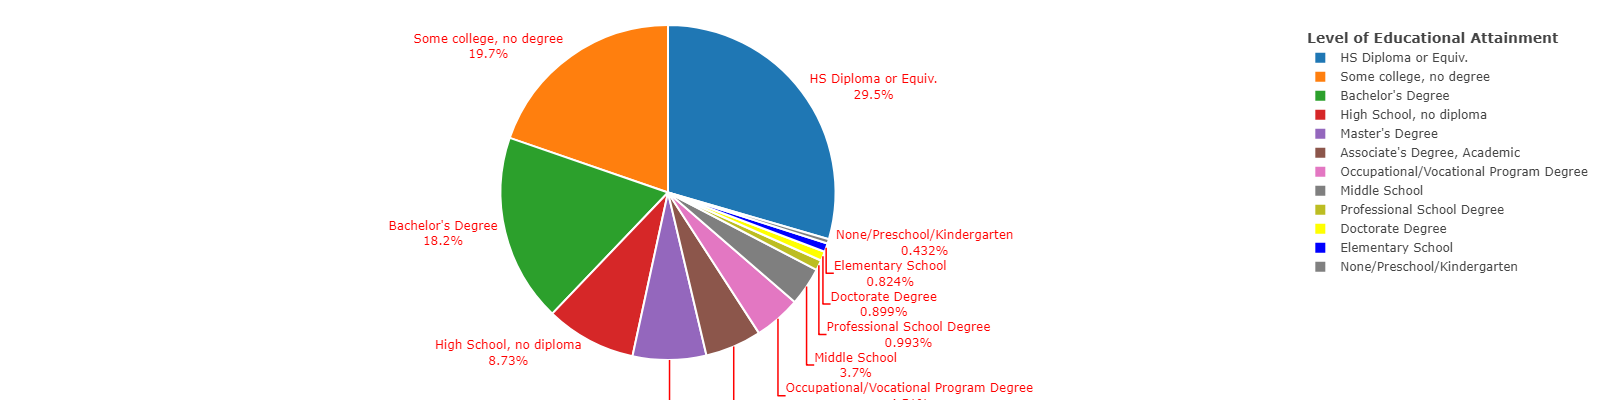
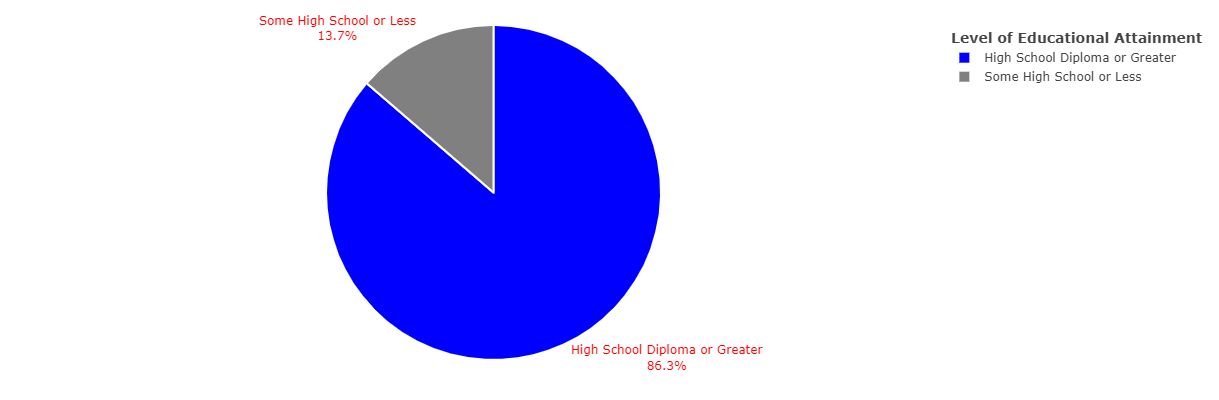
making changes to ch1 + 2, continue review of ch2 tomorrow

diff --git a/thesis.md b/thesis.md
@@ -1,6 +1,6 @@
 # Introduction
 
-This chapter will detail the existing research behind EduAttain, as well as, detail the motivation and goals of the project.
+This chapter will introduce the existing research behind EduAttain, as well as, detail the motivation and goals of the project.
 
 ## Motivation
 
@@ -20,9 +20,9 @@ There is a robust literature surrounding educational attainment that captures th
 
 Much of the focus in the existing literature concerns differences between white and black individuals. This neglects the disparities and differences in educational attainment that might be observed in other racial and ethnic groups. One of the goals of this study and subsequent tool is to analyze differences across different racial and ethnic groups, with special interest in observing differences in those racial and ethnic groups that literature has failed to cover.
 
-To my knowledge, there is no research that analyzes the combined impact of race, ethnicity, and gender on educational attainment and the degree to which interactions between these factors can influence whether a person will recieve a certain level of educational attainment.
+To my knowledge, there is no research that analyzes the combined impact of race, ethnicity, and gender on educational attainment and the degree to which interactions between these factors can influence whether a person will recieve a certain level of educational attainment. This gap in research is particularly concerning given the impact on these intersections of identity on educational outcomes.
 
-Few studies employ the use of regression to study the effects of different factors on educational attainment [ADD CITATION HERE]. One of the goals of this project is to use a regression model that includes  race, ethnicity, and gender as they relate to educational attainment. This research shed light on the strength of the relationship between each of the factors. It could also help determine which of these factors plays a bigger role as a determinant of educational attainment.
+Few studies employ the use of regression to study the effects of different factors on educational attainment. Moreover, of those that do, the focus tends to be on the topic of income and educational attainment [ADD CITATION HERE]. One of the goals of this project is to use a regression model that includes race, Hispanic ethnicity, and gender as they relate to educational attainment. This research shed light on the strength of the relationship between each of the factors. It could also help determine which of these factors plays a bigger role as a determinant of educational attainment.
 
 This project also looks to take on the task of an interdisciplinary study, as research from various fields of study including Sociology and Economics will be leveraged in the creation of a tool that is created using computer science and data science fundamentals. The goal is that this project represents a type of study called fusion analysis, where multiple disciplines are used together in order to analyze data and draw greater conclusions from that data (had only traditional data analysis been employed) [ADD CITATION].
 
@@ -34,7 +34,7 @@ In order to access to all of the data, an SQLite database will be used to store 
 
 Figure 1 presents a pie chart comprised of proportions of the male population at each level of educational attainment, while Figure 2 presents a similar pie chart but for the female population accounted for in 2010. This along with additional statistics and visualizations will be output on a web-based dashboard, which will allow for users to compare different identity groups or to look at the trend of educational attainment for one identity group over the years.
 
-The main goal of this project is to provide a tool that will make it easy to observe trends in US educational attainment by race, gender, and Hispanic origin. An auxiliary goal of this project is to be able to compare trends in educational attainment by identity group and by year,through comparing the proportions of the population at each level of education. This is so that the trends based on individual factors can be observed in isolation, as well. A final goal of this project is to determine if there is a statistical relationship between educational attainment and each of these factors, and whether or not these factors can be viewed as determinants of educational attainment.
+The main goal of this project is to provide a tool that will make it easy to observe trends in US educational attainment by race, gender, and Hispanic origin. An auxiliary goal of this project is to be able to compare trends in educational attainment by identity group and by year, through comparing the proportions of the population that attained an education equivalent to or greater than a high school diploma. This is so that the trends based on individual factors can be observed in isolation. A final goal of this project is to determine if there is a statistical relationship between educational attainment and each of these factors, and whether or not these factors can be viewed as determinants of educational attainment, both of which will be accomplished through the use of a binary logistic regression.
 
 ![US Male Educational Attainment in 2010](images/malexedu2010.png)
 
@@ -180,19 +180,21 @@ The last but probably the most important ethical issue that may arise as a resul
 
 # Related Work
 
+This chapter presents the existing research related to gender, racial, and ethnic disparities in education, as to further motivate this project and identify any gaps in knowledge, which will be addressed by EduAttain.
+
 ## Gender and Educational Attainment
 
-In order to accurately understand the gender disparities in educational attainment, historical trends of college completion rates must be taken into account. College completion rates are often looked at as a marker of educational attainment, as college is often regarded as the highest level of education a person can achieve. From the early 1940s until the 1980s, men dominated rates of college completion, while women fell behind at rates of completion varying from 23.9 to 41.3%. [@jaco] While women were, at this point, disproportionately represented in rates of college completion, their rates of completion continued to grow steadily, which eventually led to their achievement of parity with men in rates of college completion. By 1992, women surpassed men in college completion accounting for 54.2% of all awarded bachelor’s degrees in the US, which is a thirty percent increase to the rate of college completion amongst women in the 1950s. This historical trajectory of gendered differences in college completion rates shows a marked reversal of the gender gap in educational attainment is present, as can be observed in the rapid gains by women in the past century.
+In order to accurately understand the gender disparities in educational attainment, historical trends of college completion rates ought to be taken into account. College completion rates are often looked at as a marker of educational attainment, as college is often regarded as the highest level of education a person can achieve. From the early 1940s until the 1980s, men dominated rates of college completion, while women fell behind at rates of completion varying from 23.9 to 41.3%. [@jaco] While women were, at this point, disproportionately represented in rates of college completion, their rates of completion continued to grow steadily, which eventually led to their achievement of parity with men in rates of college completion. By 1992, women surpassed men in college completion accounting for 54.2% of all awarded bachelor’s degrees in the US, which is a thirty percent increase to the rate of college completion amongst women in the 1950s. This historical trajectory of gendered differences in college completion rates shows a marked reversal of the gender gap in educational attainment is present, as can be observed in the rapid gains by women in the past century.
 
-McDaniel et al. (2008) found various factors played a role in mobilizing these drastic shifts in college completion rates, varying based on gender. For men, the GI Bill was pivotal in granting access to education to those who otherwise would not have been able to access it, especially low-income individuals, which steadily increased the amount of men going to college. Men were also impacted by the rising demand for college educated workers, especially for high-earning jobs, which usually require specialized skills – like a college education. For women, in the 1960s there was a general sense of rising labor force participation as more women were moving from homemakers to attaining roles in the workforce, especially in the field of higher education. This was labor force participation was further propelled by the advent of contraceptives and the Civil Rights and Womens’ Liberation movements, both of which helped change the social expectations for women, pushing more to pursue starting careers over families.
+McDaniel et al. (2011) found various factors played a role in mobilizing these drastic shifts in college completion rates, varying based on gender. For men, the GI Bill was pivotal in granting access to education to those who otherwise would not have been able to access it, especially low-income individuals, which steadily increased the amount of men going to college. Men were also impacted by the rising demand for college educated workers, especially for high-earning jobs, which usually require specialized skills – like a college education. For women, in the 1960s there was a general sense of rising labor force participation as more women were moving from homemakers to attaining roles in the workforce, especially in the field of higher education. This was labor force participation was further propelled by the advent of contraceptives and the Civil Rights and Womens’ Liberation movements, both of which helped change the social expectations for women, pushing more to pursue starting careers over families.
 
 The differences in the rates of college completion have a lot to do with gendered differences in educational experiences. Buchmann et al. (2008) analyzed gender inequalities in educational performance and attainment, and how they change from childhood to adulthood, as early childhood schooling experiences tend to set the stage for all schooling experiences to follow. Gendered differences in educational performance and attainment start as early as kindergarten, as “academic redshirting”, the delayed entry into kindergarten, is more prevalent among males and children of families of high socioeconomic status. Males make up 60% of children delaying kindergarten, are more likely to be retained a grade, and mature slower when compared to females. In terms of how males and females compare when testing, there is a strong held belief that boys tend to score higher in mathematics assessments while girls score higher in reading. This finding is not necessarily true in the initial years of schooling, as children tend to perform more similarly early on and only start to show differences in testing as they progress through schooling. While women have shown dominance in rates of college completion, they also continuously received higher levels of academic achievement, in the form of grades, when compared to their male counterparts. This is a result of girls having more advanced reading skills than boys, apparent as early as kindergarten, and girls’ advantages in social skills and classroom behavior. Gaps present in children’s educational trajectory are also impacted by gendered differences in parental involvement. Parents tend to be more involved in school-related activities for boys and home-related activities for girls, with their involvement in boys’ education dwindling as boys mature with involvement in girls’ education remains intact. Parental involvement, along with parental education, role modeling, financial and social capital, and academic aspirations (usually derived from familial and other related environments) play a vital role in determining educational attainment.
 
-Buchmann et al. also established that women have consistently outperformed men in high school graduation and college enrollment rates, which has continued to increase substantially when compared to men. Contributing factors include men’s higher propensity to drop out of high school (represented by higher rates), delay college enrollment, and acquire GEDs, all of which significantly impacts their college readiness and rates of college completion. Women have also experienced higher levels of degree program completion across all levels of higher education including doctorate and professional degrees, further demonstrating how women are reaching parity with men in the realm of educational completion and attainment.
+Buchmann et al. (2008) also established that women have consistently outperformed men in high school graduation and college enrollment rates, which has continued to increase substantially when compared to men. Contributing factors include men’s higher propensity to drop out of high school (represented by higher rates), delay college enrollment, and acquire GEDs, all of which significantly impacts their college readiness and rates of college completion. Women have also experienced higher levels of degree program completion across all levels of higher education including doctorate and professional degrees, further demonstrating how women are reaching parity with men in the realm of educational completion and attainment.
 
 ## Race and Educational Attainment
 
-While gender differences in educational attainment trends suggest that there has been a reversal of the gender gap in educational attainment, racial differences must also be taken into consideration, as these differences have implications for the types of information, opportunities, and resources available to different racial/ethnic groups. In comparing trends of educational attainment of white people to those of black people, McDaniel et al. (2008) found that for white people, men and women seemed to switch places in terms of which group dominated college completion rates while for black people, women have always held the upper hand.
+While gender differences in educational attainment trends suggest that there has been a reversal of the gender gap in educational attainment, racial differences must also be taken into consideration, as these differences have implications for the types of information, opportunities, and resources available to different racial/ethnic groups. In comparing trends of educational attainment of white people to those of black people, McDaniel et al. (2011) found that for white people, men and women seemed to switch places in terms of which group dominated college completion rates while for black people, women have always held the upper hand.
 
 In the 1940s, only 1% of all black men in the US completed college whereas approximately 2% of all black women completed college. By the early 2000s, black women continued to dominate college completion rates with 15% of the black female population completing college compared to 10% of black men completing college. The trends in educational attainment for black people are largely influenced by the lack of educational resources and opportunities, especially in the Deep South after the end of slavery. The anti-Black sentiment in this part of the country also limited black men’s access to the G.I. Bill, a pivotal piece of legislation enabling men, particularly those from low-income backgrounds, across the country to receive a post-graduate education, contingent on service in the military, when they otherwise would not have the opportunity to do so. This closed another opportunity for black men to reach parity with women in rates of educational attainment. Additionally, black men have never surpassed white men in rates of educational attainment, largely due to the aforementioned disadvantages present for the black population in regards to receiving an education.
 
@@ -202,11 +204,23 @@ The educational trends of other minority groups do not follow the trends of blac
 
 Contributors to racial inequality in educational attainment include differences in socioeconomic status, unequal expectations, and cultural mismatching. Historically, white people tended to come from families with parents that had higher levels of academic achievement, occupational status, and income than black people, which paves the way for more favorable educational outcomes like the completion of a postsecondary education. While these inequalities do exist, there has been movements towards convergence in the rates of educational attainment of white and black people, as a result of increases in parental schooling and declines in family size. With every generation, these improvements persist, creating a positive cycle of children benefitting from the educational accomplishments of their parents. As a result of the lower average socioeconomic statuses of black people, they tend to be overrepresented in careers that usually do not require a postsecondary education, reducing their overall achievement and attainment compared to other groups. Additionally, as there has been a general culture of lower expectations for black students than white students, which is directly related to the belief that black students are prone to misbehaving in class and not reaching high levels of academic achievement, as a result of lingering racism and discrimination in education. These differences in cultural and societal expectations can directly lead to differences in the educational outcomes of different groups.
 
-## Income and Educational Attainment
+## Other Factors Impacting Educational Attainment
+
+### Income
+
+This project had originally intended to capture the role of income in educational attainment, but after difficulties with working with the income variable in R Studio, the variable was dropped from the analysis. Nonetheless, income plays an undeniable role in determining class and subsequently, educational attainment.
 
 A person’s familial or personal income level can also play a role in determining their level of educational attainment. In fact, children from high-earning households have more access to educational resources like school supplies, books, computers, and tutors, among other things, which can contribute to and increase levels of educational attainment. Additionally, families from high-income households also have access to higher-quality public schools with better resources or private schooling, though there is little evidence that points to drastic differences in educational outcomes as a result of these “better schools”. Additionally, the level of income a parent makes is correlated to the habits and attitudes instilled in their children and can therefore influence their children’s educational attainment. Habits like owning books, reading the news, and other related enrichment activities tend to be more prevalent in high-earning households and lead to higher levels of academic success (in achievement and attainment).
 
 An earlier study found that parental income only impacts educational attainment when a student is eligible for a government student loan or the G.I. Bill, despite the belief of a great impact. [@taub] Though this is not exactly the case, as other studies seem to elude to the idea that income does influence educational attainment, especially by way of the type of opportunities and resources available. In fact, DeGregorio and Lee (2003) found that there seems to be a relationship between income and education, especially as it relates to inequality of both. They found that income inequality increases with increases in education inequality. To further support this, Coady and Dizoli (2017) found that expansions and improvements in education reduces overall income inequality by decreasing the inequality in education. These findings support the idea that income does play a role in determining a person’s level of educational attainment.
+
+### Nativity
+
+### Parental Education
+
+## Fusion Analysis
+
+add section about fusion analysis serving as the computational theoretical framework for the project
 
 # Method of approach
 

diff --git a/abstract.md b/abstract.md
@@ -1,3 +1,3 @@
 # Abstract
 
-In recent years, trends in educational attainment have reflected simultaneous movements towards closing and widening disparities between different identity groups. Studying educational attainment, specifically revolved around studying differences or disparities in educational attainment, is important because of the implications it has for future work opportunities, financial security, and resource access. This study will look to answer the question of what specific demographic factors and to what degree they are determinants of educational attainment. The demographic factors that this study will focus on include sex, race/ethnicity, and income. The main goal of this study is to address the lack of research in comparing educational attainment trends between different identity groups, with special interest in studying differences in race/ethnicity and income. Leveraging data from IPUMS, and using R and SQLite, trends in educational attainment across different identity groups will be studied in order to answer this question and display results on a data dashboard, in order to draw comparisons.
+Over the last fifty years, trends in educational attainment have reflected simultaneous movements towards closing and widening disparities between different identity groups. Studying educational attainment, specifically revolved around studying differences or disparities in educational attainment, is important because of the implications for future work opportunities, financial security, and resource access. This study identifies and investigates the demographic factors as determinants of educational attainment, namely sex, race, and Hispanic ethnicity. The main goal of this study is to address the lack of research in comparing educational attainment trends between different identity groups and to present research that studies these factors statistical relationship to education. Leveraging data from IPUMS, and using R and SQLite, trends in educational attainment across different identity groups will be studied through the use of pie charts to display results and draw comparisons that will be displayed on a web-based dashboard. The statistical relationship between these factors and educational attainment will be studied using a binary logistic regression, to determine what populations had a higher odds of having a high school diploma or greater. The findings of this project affirm much of the research done in the realm of gender, racial, and ethnic inequities in education, in that White, Non Hispanic, and Female populations have the highest rates of educational attainment, compared to all other populations.
